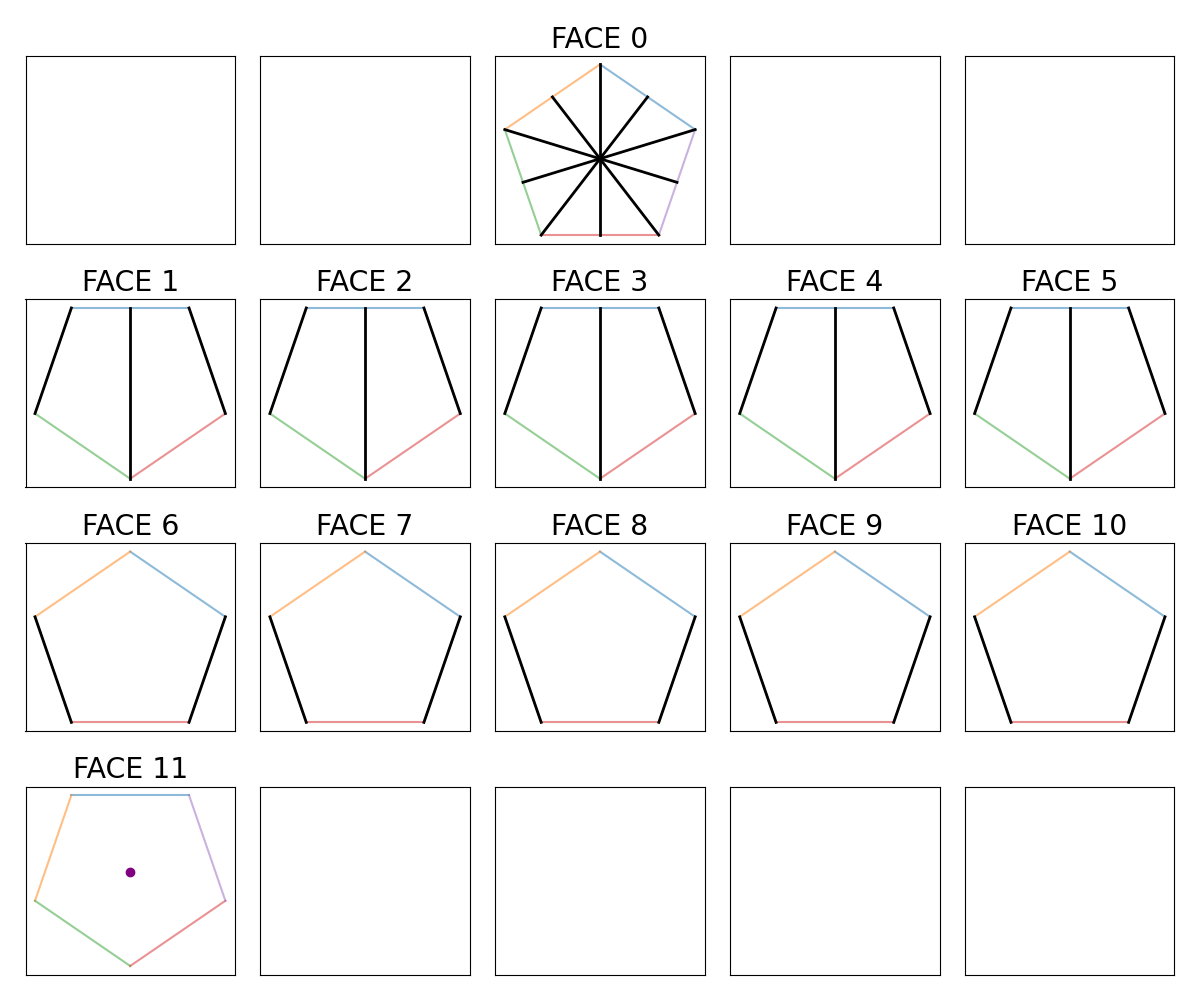
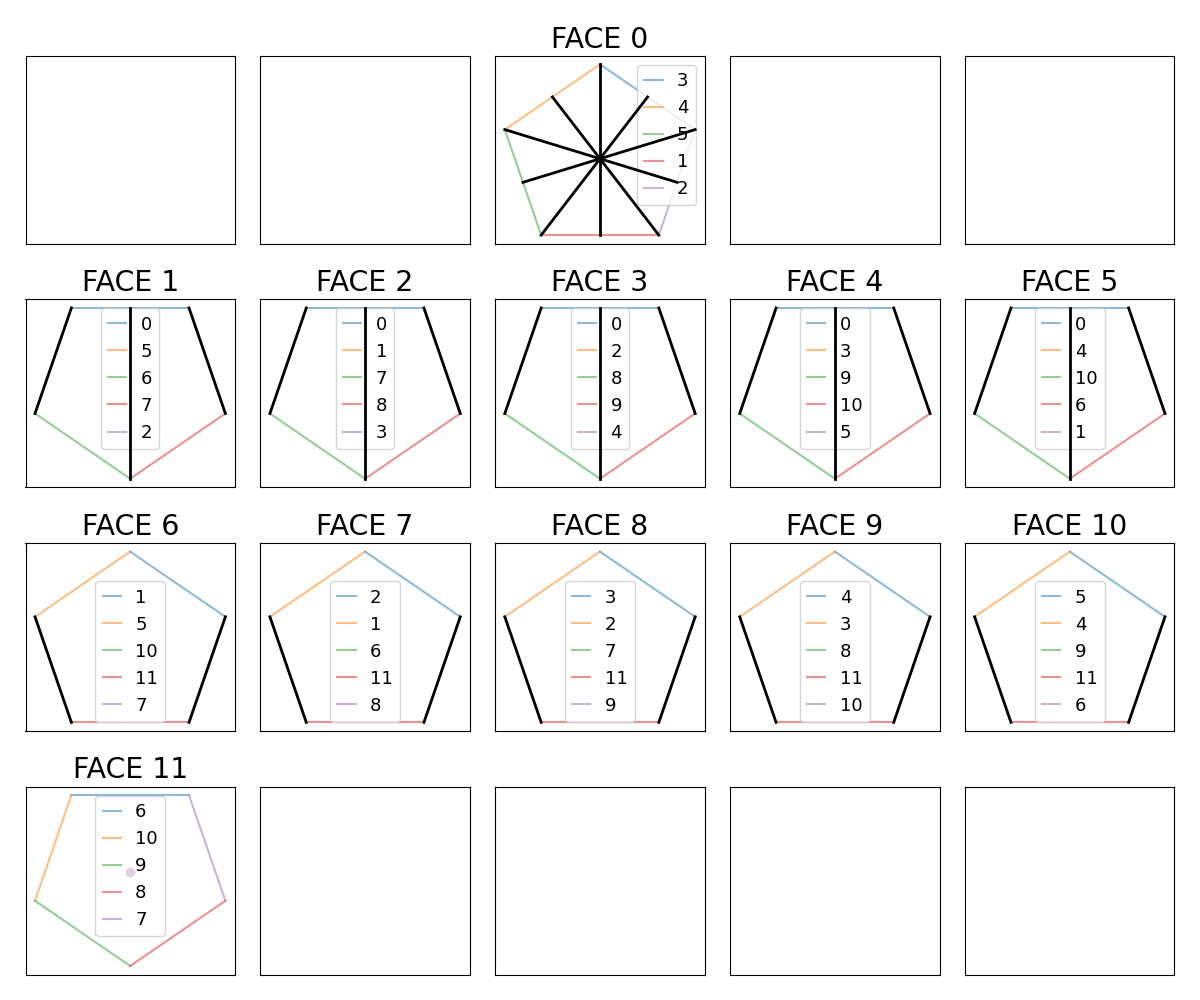
label dodecahedron

diff --git a/cut_locus.py b/cut_locus.py
@@ -10,6 +10,8 @@ display_group.add_argument("--handlelength", type=int, required=False, default=N
                            help="length of lines shown in legend")
 display_group.add_argument("--explicit-edges", action='store_true', required=False,
                            help="say 'face <face number>' on legend for edges")
+display_group.add_argument("--leg-font-size", type=int, required=False, default=None,
+                           help="legend font size")
 PARSER.add_argument("--ignore-points", action='store_true', required=False,
                     help="ignore single points on faces of cut loci, useful for fixing corner cases or repeat paths")
 
@@ -63,6 +65,7 @@ shape.interactive_vornoi_plot(diameter=args.diameter if args.diameter > 0 else N
                               mark_points=marks,
                               legend_kwargs={
                                   'handlelength': args.handlelength,
-                                  "face_name_to_label": lambda x: "FACE " + str(x) if args.explicit_edges else x
+                                  "face_name_to_label": lambda x: "FACE " + str(x) if args.explicit_edges else x,
+                                  'fontsize': args.leg_font_size,
                               },  # TODO maybe make default 1
                               )
